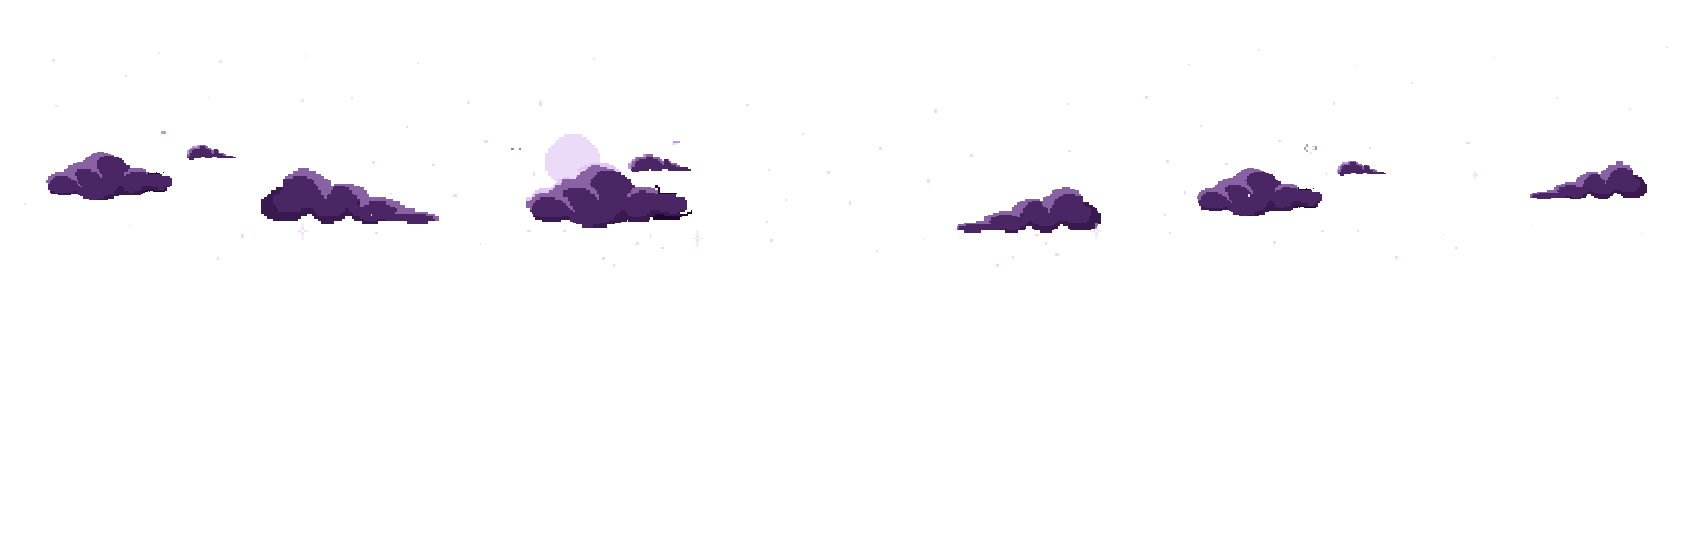
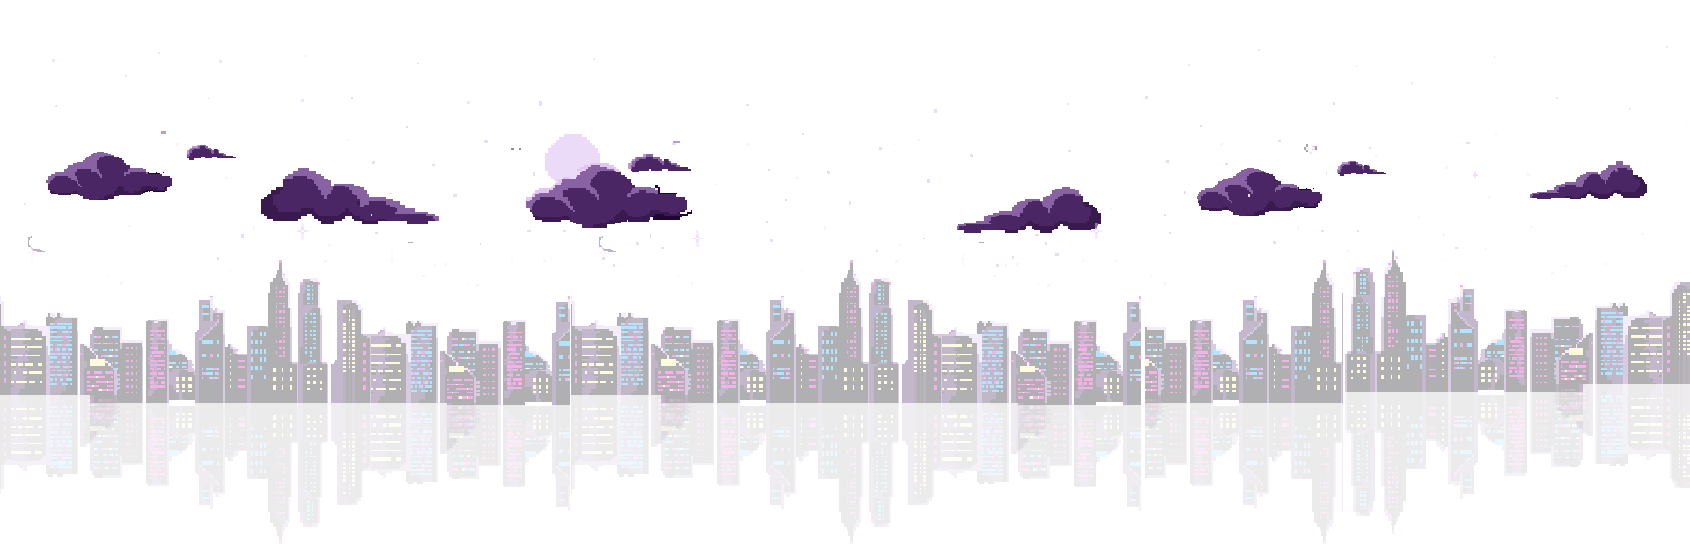
needs more bg

Changed region(s): [[0.0, 0.4586, 1.0, 0.795]]

diff --git a/app/assets/stylesheets/home.scss b/app/assets/stylesheets/home.scss
@@ -6,11 +6,12 @@ body {
   #wrapper {
     width:100%;
     height:556px;
-  }
 
-  #cover {
-    width:100%;
-    height:100%;
+    #cover {
+      width:100%;
+      height:100%;
+      @include background(image-url('bg.png'), linear-gradient(#000, $base-background-color), no-repeat center fixed);
+    }
   }
 
   img.centered {
@@ -25,9 +26,6 @@ body {
 }
 
 @media only screen and (min-width: 800px) {
-  #cover {
-    @include background(image-url('bg.png'), linear-gradient(#000, $base-background-color), no-repeat center fixed);
-  }
 }
 
 @media only screen and (min-width: 1200px) {
